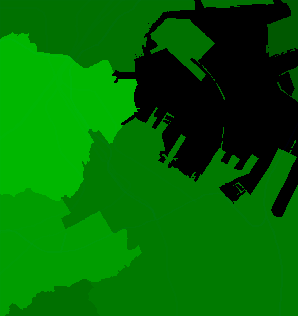
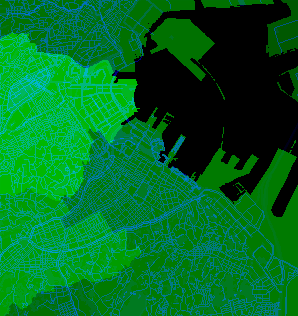
地図の試作：名所のまわりに OpenStreetMap の道路・公園と森・水辺を追加
- build/fetch_osm.py で名所のまわり（20m の段）の範囲ごとに Overpass から取る
- 太い道・細い道・公園と森・川と池を B のビットに入れて、パレットの色でぬる
- 細い道はボタンで出す・消す
- 出典（© OpenStreetMap contributors, ODbL）とわかったことを更新

diff --git a/app/lab/map/findings.js b/app/lab/map/findings.js
@@ -1,5 +1,14 @@
 // 試作でわかったこと（2026-11-25、PC のスマホ幅 375×812 で確かめた内容）
 export const FINDINGS = `
+<h2>3回目で変えたこと：寄ったときの中身</h2>
+<ul>
+<li>名所のまわり（20m の段）に、OpenStreetMap の <b>道路</b>（太い道＝白、細い道＝うすい色）・<b>公園と森</b>（濃い緑）・<b>川・運河・池</b>（青）を落とした。みなとみらいの街区、運河、山下公園、中華街の路地まで読めて、ドット絵のRPGの町のような見た目になった</li>
+<li>細い道はボタンで消せる（街なかでは細い道が多く、消すとすっきりする）</li>
+<li>データは全部で約800KB に増えた（20m の段が約65KB → 約280KB。いちばん大きいのは東京の中心で約160KB）</li>
+<li>問題：OpenStreetMap の道などは 20m の段にしか入れていないので、名所のまわりの四角（±2.5km）から外に出ると急に道がなくなる。本番なら、50m・100m の段にも太い道だけ入れると、つながりがよくなる</li>
+<li>OpenStreetMap のデータは ODbL。地図に出典を出していれば使えるが、本番で道のデータそのものを配るなら ODbL の決まりに合わせる必要がある</li>
+</ul>
+
 <h2>2回目で変えたこと（くりたの感想を受けて）</h2>
 <ul>
 <li><b>もっと寄れるように</b>：名所のまわり（名所から ±2.5km）だけ 1マス20m の段を足した。みなとみらい・中華街のように名所が集まる所でも、ピンが離れて押しやすい</li>
@@ -53,15 +62,15 @@ export const FINDINGS = `
 <li>ドットの地図はどこまで寄れればよいか（県まで／市区町村まで／名所のまわり 50m まで）</li>
 <li>色をぬる単位は 市区町村 でよいか（県だけでよいか）</li>
 <li>線路は出すか（いまはボタンで切り替え）。SA・PA を名所として集めるか</li>
-<li>寄ったときに、ふつうの道路・公園・建物（OpenStreetMap）まで入れたいか。地名の文字は必要か</li>
+<li>寄ったときの道・公園・水辺（いまは名所のまわりだけ）を、もっと広く入れたいか。地名の文字は必要か</li>
 </ul>
 
 <h2>出典</h2>
 <ul>
 <li>「国土数値情報（行政区域データ N03, 2024年1月1日）」「国土数値情報（鉄道データ N02, 2023年）」「国土数値情報（高速道路時系列データ N06, 2024年）」（国土交通省）CC BY 4.0 を加工して作成</li>
 <li>Natural Earth（Admin 1、パブリックドメイン）</li>
-<li>SA・PA の位置：© OpenStreetMap contributors（ODbL）</li>
+<li>名所のまわりの道・公園・森・水辺と SA・PA の位置：© OpenStreetMap contributors（ODbL）</li>
 <li>B の地図：国土地理院（淡色地図）／© OpenStreetMap contributors。Leaflet（BSD-2）</li>
 </ul>
-<p><small>データの作り方は build/build_dotmap.py（国土数値情報 N03・N02・N06 の geojson を落としてきて渡す）。ページを直したあと古い版が出たら、もう一度読み込む（アプリのオフライン保存がこのページにもかかるため）。</small></p>
+<p><small>データの作り方は build/build_dotmap.py（国土数値情報 N03・N02・N06 の geojson と、build/fetch_osm.py で取った OpenStreetMap のデータを渡す）。ページを直したあと古い版が出たら、もう一度読み込む（アプリのオフライン保存がこのページにもかかるため）。</small></p>
 `;

diff --git a/app/lab/map/dotmap.js b/app/lab/map/dotmap.js
@@ -17,14 +17,16 @@ const P = {
   pref: hex('#B9C99A'), prefV: hex('#FFF0C0'),
   coast: hex('#A9C2B2'), coastV: hex('#FFE6A6'),
   rail: hex('#1B1628'), hw: hex('#F07850'),
+  road: hex('#FFF6E0'), minor: hex('#A9C2A8'), minorV: hex('#F6E2B0'),   // 20m の段だけ（OpenStreetMap）
+  park: hex('#5E9150'), parkV: hex('#BFA34A'), water: hex('#2E5096'),
 };
-export const PALETTE = ['#10183E', '#131C46', '#48685C', '#4E705F', '#44645A', '#D2A458', '#DBAE62', '#38564F', '#9A6A3A', '#B9C99A', '#FFF0C0', '#A9C2B2', '#FFE6A6', '#1B1628', '#F07850'];
+export const PALETTE = ['#10183E', '#131C46', '#48685C', '#4E705F', '#44645A', '#D2A458', '#DBAE62', '#38564F', '#9A6A3A', '#B9C99A', '#FFF0C0', '#A9C2B2', '#FFE6A6', '#1B1628', '#F07850', '#FFF6E0', '#A9C2A8', '#F6E2B0', '#5E9150', '#BFA34A', '#2E5096'];
 
 let meta, lv = {}, el, cv, ctx, dpr = 1, Wc = 0, Hc = 0;
 let cx = 1500, cy = 1200, s = 0.17;  // 画面の真ん中（km）と拡大率（css px / km）
 let dirty = true, pinRects = [], interacting = false, lastDraw = 0, sel = null;
 const vPrefs = new Set(), vMunis = new Set();
-export const layers = { rail: true, hw: true };
+export const layers = { rail: true, hw: true, minor: true };
 
 const proj = (lng, lat) => [(lng - meta.proj.lon0) * meta.proj.kx, (meta.proj.lat0 - lat) * meta.proj.ky];
 
@@ -65,7 +67,7 @@ function updateVisited() {
 }
 
 function paint(v) {
-  const set = v.L.kind === 'pref' ? vPrefs : vMunis, key = [...set].sort().join(',') + '|' + layers.rail + layers.hw;
+  const set = v.L.kind === 'pref' ? vPrefs : vMunis, key = [...set].sort().join(',') + '|' + layers.rail + layers.hw + layers.minor;
   if (v.key === key) return;
   const t0 = performance.now(), { W, H } = v.L, r = v.raw;
   const img = v.ctx.createImageData(W, H), o = new Uint32Array(img.data.buffer);
@@ -74,11 +76,14 @@ function paint(v) {
     let c;
     if (b & 8 && layers.hw) c = P.hw;                          // 高速道路
     else if (b & 4 && layers.rail) c = P.rail;                 // 線路（250m より細かい段だけ）
+    else if (b & 16) c = P.road;                               // ここから下の道・水辺・公園は 20m の段だけ
+    else if (b & 128 && layers.minor && id) c = set.has(id) ? P.minorV : P.minor;
+    else if (b & 64 && id && f !== 3) c = P.water;
     else if (!id) c = ((x >> 1) + (y >> 1)) & 1 ? P.seaB : P.seaA;   // 海：2マスごとの市松で、ドットの手ざわり
     else {
       const vv = set.has(id);
       c = f === 3 ? (vv ? P.coastV : P.coast) : f === 2 ? (vv ? P.prefV : P.pref) : f === 1 ? (vv ? P.muniV : P.muni)
-        : vv ? P.landV[(x + y) & 1] : P.land[id % 3];
+        : b & 32 ? (vv ? P.parkV : P.park) : vv ? P.landV[(x + y) & 1] : P.land[id % 3];
     }
     o[i] = c;
   }

diff --git a/app/lab/map/index.html b/app/lab/map/index.html
@@ -68,14 +68,14 @@ section.on{display:flex}
 
 <section id="a" class="on">
   <div class="bar"><button data-go="jp">日本</button><button data-go="kanto">関東</button><button data-go="kana">神奈川</button><button data-go="spot">名所のまわり</button>
-    <button data-layer="hw" class="on">高速道路</button><button data-layer="rail" class="on">線路</button></div>
+    <button data-layer="hw" class="on">高速道路</button><button data-layer="rail" class="on">線路</button><button data-layer="minor" class="on">細い道</button></div>
   <div class="stage">
     <canvas aria-label="ドットの日本地図。指でずらす・2本の指で拡大縮小。印を押すと名前が出ます"></canvas>
     <div class="dm-where">読み込み中…</div><div class="dm-perf"></div>
     <div class="zoom"><button data-z="1" aria-label="拡大">＋</button><button data-z="-1" aria-label="縮小">−</button></div>
     <div class="legend"><span><i style="background:#FFC857"></i>行った</span><span><i style="background:#8C93C8"></i>まだ</span><span><i style="background:#3ED6C4"></i>SA・PA</span><span><i style="background:#D2A458"></i>行った市区町村</span></div>
     <div class="dm-info" hidden></div>
-    <div class="src">地図：「国土数値情報（行政区域・鉄道・高速道路）」（国土交通省, CC BY 4.0）・Natural Earth を加工して作成。SA・PA の位置：© OpenStreetMap contributors</div>
+    <div class="src">地図：「国土数値情報（行政区域・鉄道・高速道路）」（国土交通省, CC BY 4.0）・Natural Earth を加工して作成。名所のまわりの道・公園・水辺と SA・PA の位置：© OpenStreetMap contributors（ODbL）</div>
   </div>
 </section>
 

diff --git a/app/lab/map/build/build_dotmap.py b/app/lab/map/build/build_dotmap.py
@@ -5,10 +5,12 @@
 #   名所のまわり（名所から ±2.5km）だけ、さらに 20m のマス
 #   線路：国土数値情報 鉄道（N02, 2023年, CC BY 4.0）を 250m より細かい段に
 #   高速道路：国土数値情報 高速道路時系列（N06, 2024年, CC BY 4.0）を 2km より細かい段に（日本全体にも）
+#   名所のまわりの 20m の段だけ：OpenStreetMap（© OpenStreetMap contributors, ODbL）の道路・公園と森・水辺（fetch_osm.py で取る）
 # 出力（app/lab/map/data/）：<level>.png … R*256+G＝番号（0＝海）
 #                              B の下2ビット＝0:なし 1:市区町村の境 2:県境 3:海岸、4のビット＝線路、8のビット＝高速道路
+#                              （20m の段だけ）16＝太い道 32＝公園・森 64＝水辺 128＝細い道
 #                            levels.json … 各段の位置・大きさ・番号の表
-# 使い方：python build_dotmap.py <N03 の geojson を入れたフォルダ> <N02 を展開したフォルダ> <N06 を展開したフォルダ>
+# 使い方：python build_dotmap.py <N03 の geojson を入れたフォルダ> <N02 を展開したフォルダ> <N06 を展開したフォルダ> [osm_near*.json のフォルダ]
 import json, sys, glob, os, collections
 import numpy as np
 from PIL import Image, ImageDraw
@@ -125,6 +127,47 @@ for p, _, _ in feats:
 prefIdx = {n: c for c, n in prefs.items()}
 mpref = np.array([0] + [prefIdx.get(m['pref'], 0) for m in munis], np.int32)
 
+MAJOR = {'trunk', 'trunk_link', 'primary', 'primary_link', 'secondary', 'secondary_link'}
+def stitch(ways):
+    """リレーションの外側の線をつないで輪にする"""
+    segs = [w[:] for w in ways if len(w) > 1]; rings = []
+    while segs:
+        r = segs.pop()
+        while r[0] != r[-1]:
+            for i, sg in enumerate(segs):
+                if sg[0] == r[-1]: r += sg[1:]
+                elif sg[-1] == r[-1]: r += sg[::-1][1:]
+                elif sg[-1] == r[0]: r = sg[:-1] + r
+                elif sg[0] == r[0]: r = sg[::-1][:-1] + r
+                else: continue
+                segs.pop(i); break
+            else: break
+        if len(r) > 3 and r[0] == r[-1]: rings.append(r)
+    return rings
+
+def burn_osm(fl, fn, x0, y0, cell):
+    d = json.load(open(fn, encoding='utf-8'))
+    H, W = fl.shape
+    masks = {b: Image.new('L', (W, H), 0) for b in (16, 32, 64, 128)}
+    drs = {b: ImageDraw.Draw(m) for b, m in masks.items()}
+    pix = lambda pts: [((X - x0) / cell - 0.5, (Y - y0) / cell - 0.5) for X, Y in (proj(*c) for c in pts)]
+    area = lambda t: 64 if t.get('natural') == 'water' or t.get('waterway') == 'riverbank' else 32
+    for e in d['elements']:
+        t = e.get('tags', {})
+        if e['type'] == 'way':
+            pts = [(g['lon'], g['lat']) for g in e.get('geometry', [])]
+            if len(pts) < 2: continue
+            if 'highway' in t:
+                drs[16 if t['highway'] in MAJOR else 128].line(pix(pts), fill=1, width=2 if t['highway'] in MAJOR else 1)
+            elif t.get('waterway') in ('river', 'canal'):
+                drs[64].line(pix(pts), fill=1, width=2)
+            elif pts[0] == pts[-1] and len(pts) > 3:
+                drs[area(t)].polygon(pix(pts), fill=1)
+        elif e['type'] == 'relation':
+            outer = [[(g['lon'], g['lat']) for g in m.get('geometry', [])] for m in e.get('members', []) if m.get('role') == 'outer' and m.get('geometry')]
+            for ring in stitch(outer): drs[area(t)].polygon(pix(ring), fill=1)
+    for b, m in masks.items(): fl[np.array(m) > 0] |= b
+
 def raster(name, x0, y0, W, H, cell):
     im = Image.new('I', (W, H), 0); dr = ImageDraw.Draw(im)
     pix = lambda ring: [((X - x0) / cell - 0.5, (Y - y0) / cell - 0.5) for X, Y in (proj(*c) for c in ring)]
@@ -135,6 +178,8 @@ def raster(name, x0, y0, W, H, cell):
     fl = flags(a, mpref[a])
     if cell <= 0.25: burn(fl, RAIL, x0, y0, cell, 4)
     burn(fl, HW, x0, y0, cell, 8)
+    osm = os.path.join(sys.argv[4], f'osm_{name}.json') if len(sys.argv) > 4 else ''
+    if osm and os.path.exists(osm): burn_osm(fl, osm, x0, y0, cell)
     size = save(name, a, fl)
     levels.append(dict(id=name, cell=cell, x0=x0, y0=y0, W=W, H=H, kind='muni', bytes=size, src='n03'))
     print(name, a.shape, size)
@@ -166,5 +211,6 @@ json.dump(dict(proj=dict(lon0=LON0, lat0=LAT0, kx=KX, ky=KY), levels=levels, pre
                sources=dict(ne='Natural Earth（Admin 1, パブリックドメイン）',
                             n03='国土数値情報（行政区域データ N03, 2024年1月1日）国土交通省, CC BY 4.0 を加工して作成',
                             n02='国土数値情報（鉄道データ N02, 2023年）国土交通省, CC BY 4.0 を加工して作成',
-                            n06='国土数値情報（高速道路時系列データ N06, 2024年）国土交通省, CC BY 4.0 を加工して作成')),
+                            n06='国土数値情報（高速道路時系列データ N06, 2024年）国土交通省, CC BY 4.0 を加工して作成',
+                            osm='© OpenStreetMap contributors（ODbL）。名所のまわりの 20m の段の道路・公園・森・水辺')),
           open(os.path.join(OUT, 'levels.json'), 'w', encoding='utf-8'), ensure_ascii=False, separators=(',', ':'))

diff --git a/app/lab/map/build/fetch_osm.py b/app/lab/map/build/fetch_osm.py
@@ -1,0 +1,31 @@
+# 名所のまわり（20m の段 near*）に入れる OpenStreetMap のデータを、Overpass API から取ってくる
+# 取るもの：ふつうの道路（幹線〜3けた県道くらいまで）・公園・森・水辺（川・池）
+# データ：© OpenStreetMap contributors（ODbL）
+# 使い方：python fetch_osm.py <保存するフォルダ>   … data/levels.json の near* の範囲ごとに osm_near*.json を保存（あればとばす）
+import json, os, sys, time, urllib.request, urllib.parse
+
+HERE = os.path.dirname(os.path.abspath(__file__))
+meta = json.load(open(os.path.join(HERE, '..', 'data', 'levels.json'), encoding='utf-8'))
+P = meta['proj']
+out = sys.argv[1]; os.makedirs(out, exist_ok=True)
+Q = '''[out:json][timeout:180];
+(
+  way["highway"~"^(trunk|trunk_link|primary|primary_link|secondary|secondary_link|tertiary|tertiary_link|unclassified|residential|living_street|pedestrian)$"]({b});
+  way["natural"="water"]({b}); relation["natural"="water"]({b});
+  way["waterway"~"^(river|canal|riverbank)$"]({b});
+  way["leisure"~"^(park|garden)$"]({b}); relation["leisure"~"^(park|garden)$"]({b});
+  way["landuse"~"^(forest|grass|recreation_ground)$"]({b}); relation["landuse"="forest"]({b});
+  way["natural"="wood"]({b}); relation["natural"="wood"]({b});
+);
+out geom;'''
+for l in meta['levels']:
+    if not l['id'].startswith('near'): continue
+    fn = os.path.join(out, f"osm_{l['id']}.json")
+    if os.path.exists(fn): continue
+    w = l['x0'] / P['kx'] + P['lon0']; e = (l['x0'] + l['W'] * l['cell']) / P['kx'] + P['lon0']
+    n = P['lat0'] - l['y0'] / P['ky']; s = P['lat0'] - (l['y0'] + l['H'] * l['cell']) / P['ky']
+    body = urllib.parse.urlencode({'data': Q.replace('{b}', f'{s:.5f},{w:.5f},{n:.5f},{e:.5f}')}).encode()
+    req = urllib.request.Request('https://overpass-api.de/api/interpreter', data=body, headers={'User-Agent': 'dotmap-prototype/0.1'})
+    d = urllib.request.urlopen(req, timeout=300).read()
+    open(fn, 'wb').write(d)
+    print(l['id'], len(d)); time.sleep(3)
